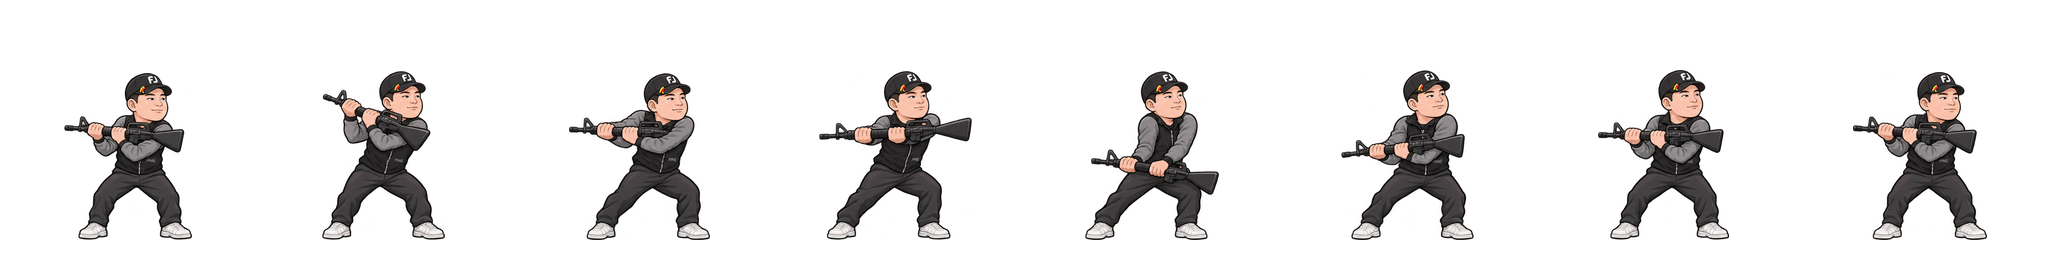
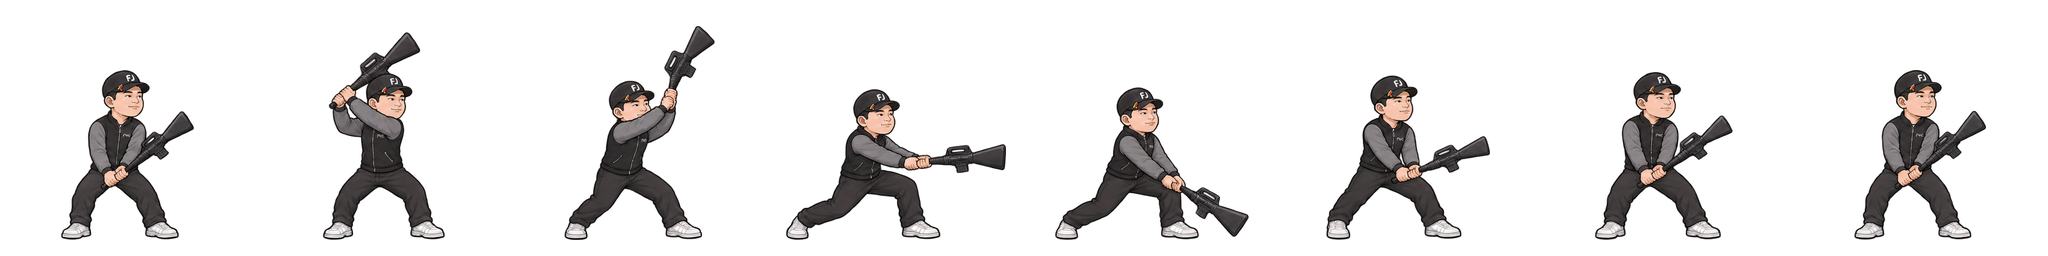
Correct Jaeho rifle grip to a two-handed club swing

diff --git a/utils/rooftopRenderer.ts b/utils/rooftopRenderer.ts
@@ -72,7 +72,7 @@ export class RooftopGame {
   const progress=special&&p.cast===3?Math.max(0,Math.min(1,.5+(elapsed-pulse)/.24)):attackProgress(p);
   const frame=this.frame(p),heavy=p.alive&&p.stun<=0&&p.down<=0&&p.poseTime>0&&(p.attackKind==='heavy'||special)&&!(p.cast===5&&p.specialLeft>0)&&progress>=0&&progress<1,animated=frame<20,firing=heavy&&special&&p.cast===6,image=firing?this.rifleMotion:heavy?this.heavyMotion[p.cast]:animated?this.motion[p.cast]:this.images[p.cast];if(!image||p.fall>1.4)return;const c=this.ctx,pos=this.point(p.x,p.y),left=Math.cos(p.angle)<0;
   const jump=p.jump>0?Math.sin(p.jump/.65*Math.PI)*90:0,lift=0;
-  const height=actorHeight(p.y,scale),drawHeight=height*(heavy?1.48:1),width=drawHeight*(animated||heavy||p.cast===6?1:.75);
+  const height=actorHeight(p.y,scale),drawHeight=height*(heavy?1.48:p.cast===6&&animated&&p.poseTime>0&&!special?1.22:1),width=drawHeight*(animated||heavy||p.cast===6?1:.75);
   if(p.alive){c.save();c.fillStyle='#081a22';c.globalAlpha=.35;c.beginPath();c.ellipse(pos.x,pos.y+2,34-jump*.12,10,0,0,Math.PI*2);c.fill();
    c.globalAlpha=index===0?.9:.5;c.strokeStyle=p.momentum>0?'#ffad4f':index===0?'#fff3a6':CAST[p.cast].color;c.lineWidth=index===0?3:2;c.beginPath();c.ellipse(pos.x,pos.y+1,37,12,0,0,Math.PI*2);c.stroke();c.restore();}
   c.save();c.translate(pos.x,pos.y-jump-lift);if(left)c.scale(-1,1);

diff --git a/scripts/pack-rooftop-jaeho-grip.py b/scripts/pack-rooftop-jaeho-grip.py
@@ -1,0 +1,37 @@
+"""Pack corrected whole-character rifle club poses; no synthetic pose changes."""
+from pathlib import Path
+from PIL import Image
+import json
+ROOT=Path(__file__).resolve().parents[1]
+SRC=Path('C:/Users/User/.codex/generated_images/01a1a915-04e1-7e42-9e36-b0b7881b055d')
+OUT=ROOT/'output/jaeho-grip'
+report={'coordinateSpace':'screen','weaponHand':'both hands adjacent at muzzle end; same order','activeWeapon':'reversed M16 club','sources':{}}
+def split(name,id):
+ im=Image.open(SRC/f'exec-{id}.png').convert('RGBA');im.putalpha(im.getchannel('A').point(lambda a:0 if a<32 else a))
+ result=[]
+ for y in range(2):
+  for x in range(4):
+   cell=im.crop((round(x*im.width/4),round(y*im.height/2),round((x+1)*im.width/4),round((y+1)*im.height/2)));box=cell.getbbox()
+   assert box and box[0]>0 and box[1]>0 and box[2]<cell.width and box[3]<cell.height,(name,x,y,box)
+   result.append(cell.crop(box))
+ report['sources'][name]=str(SRC/f'exec-{id}.png');return result
+def normalize(frames,reference_height,target):
+ scale=min(target/reference_height,234/max(i.width for i in frames),234/max(i.height for i in frames));result=[]
+ for frame in frames:
+  f=frame.resize((round(frame.width*scale),round(frame.height*scale)),Image.Resampling.LANCZOS);cell=Image.new('RGBA',(256,256));cell.alpha_composite(f,((256-f.width)//2,240-f.height));result.append(cell)
+ return result
+def pack(frames,cols,suffix):
+ im=Image.new('RGBA',(cols*256,((len(frames)+cols-1)//cols)*256))
+ for i,f in enumerate(frames):im.alpha_composite(f,((i%cols)*256,(i//cols)*256))
+ im.save(ROOT/'public/images'/f'rooftop-jaeho-{suffix}.png')
+melee=split('melee','5521cb3c-6e0f-4951-b8d7-9b7ee029c6d5');states=split('walk-states','9f300359-154b-46e4-8231-31ef67f30a28')
+base=normalize([melee[0]],melee[0].height,220)[0]
+walk=normalize(states[:4],states[0].height,220);poses=normalize(states[4:],states[0].height,220)
+light=normalize(melee,melee[0].height,220);heavy=normalize(melee,melee[0].height,170)
+pack([base,base,poses[0],poses[1],base,poses[0],poses[2],poses[3]],4,'v2');pack(walk*2+light,4,'motion-v3');pack(heavy,8,'heavy-v5')
+preview=Image.new('RGB',(1024,1024),'#48616a')
+for i,f in enumerate(heavy+walk+poses):preview.paste(f,((i%4)*256,(i//4)*256),f)
+preview.save(OUT/'contact-sheet.jpg')
+heavy[0].save(OUT/'preview.gif',save_all=True,append_images=heavy[1:],duration=[220,130,70,100,90,90,100,200],loop=0,disposal=2)
+(OUT/'manifest.json').write_text(json.dumps(report,indent=2),encoding='utf-8')
+print('PASS: 8 melee and 8 locomotion/state source cells intact. Three corrected atlases packed; shooting sheet unchanged.')
